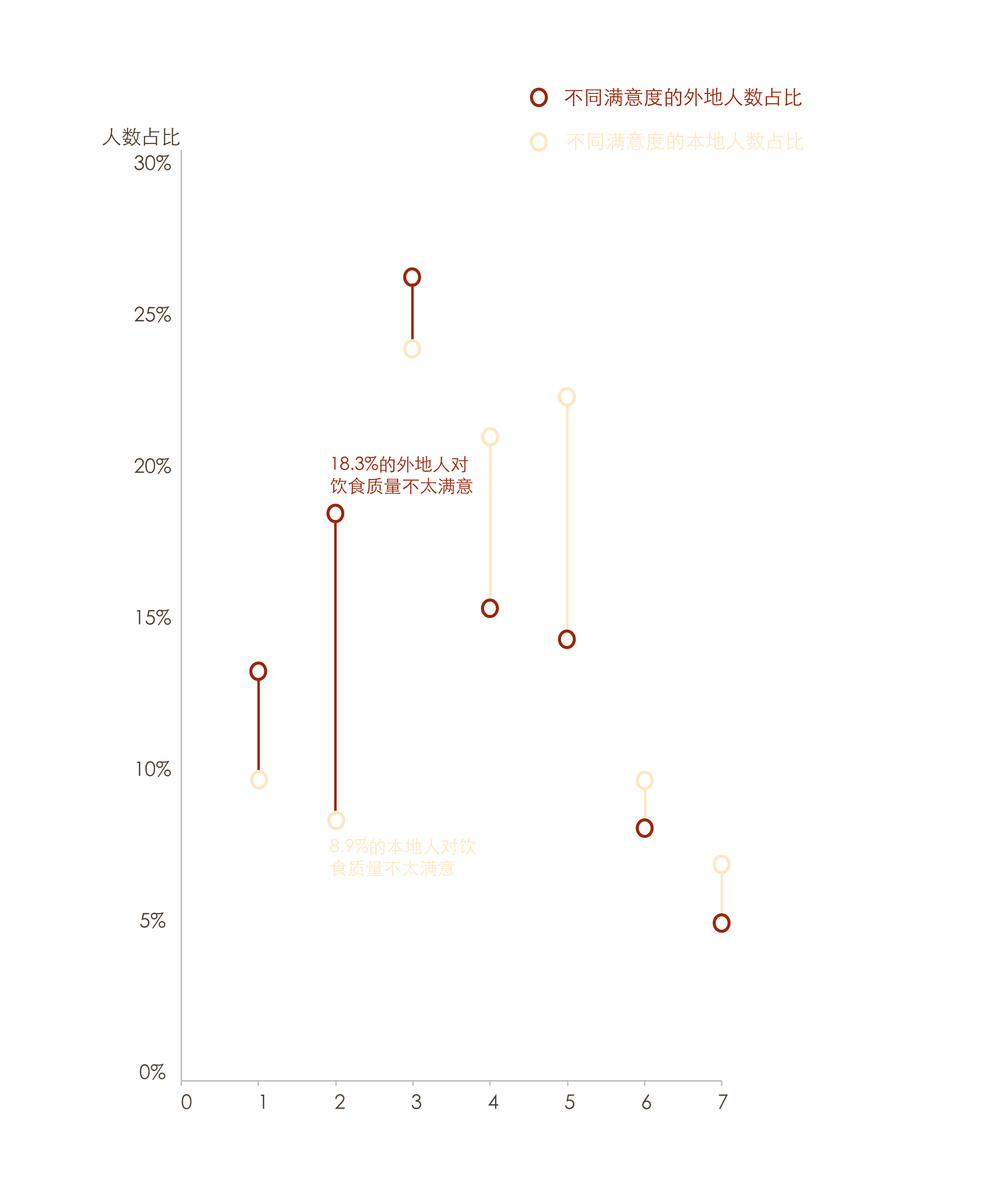
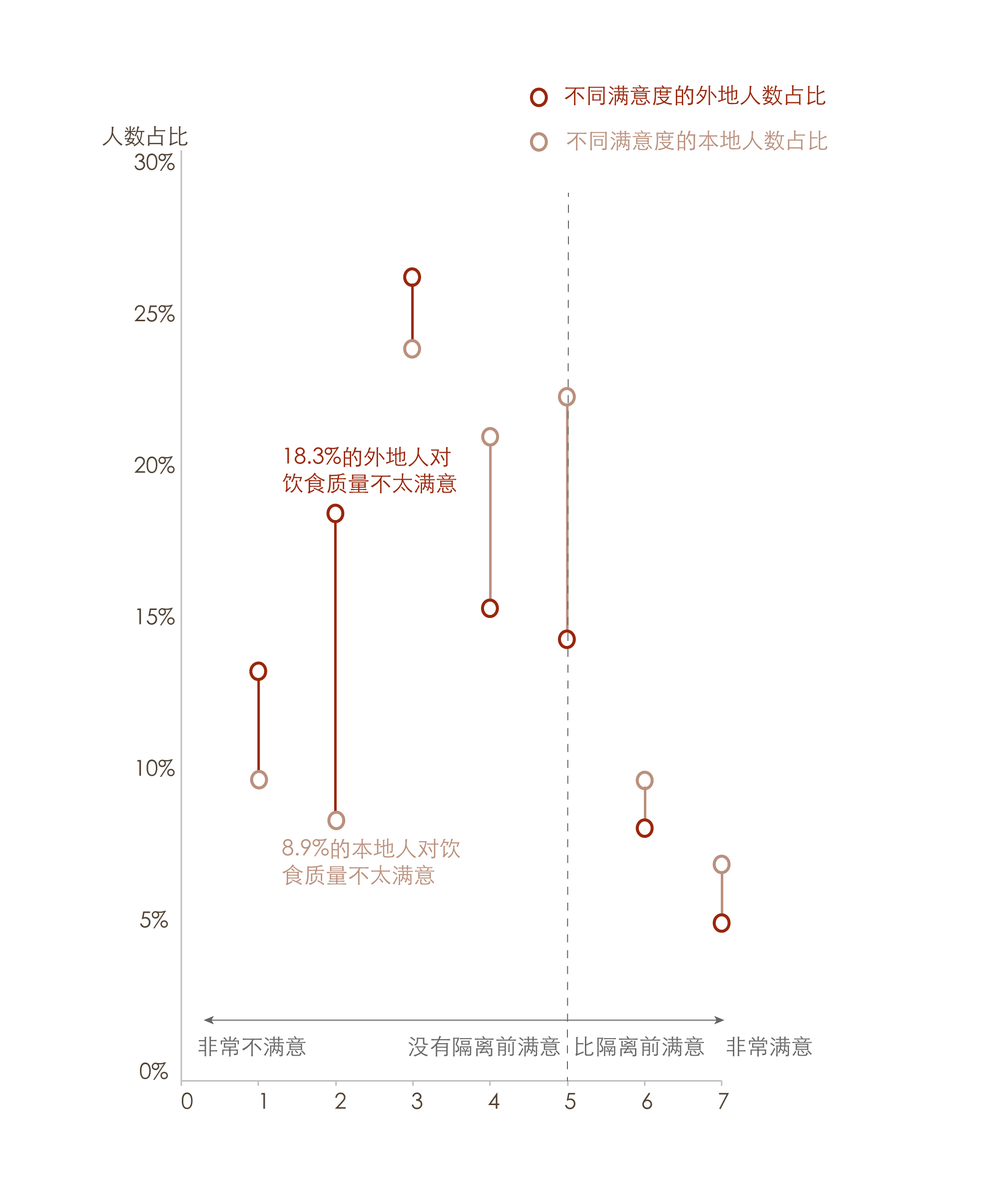
update

diff --git a/src/components/sec2.vue b/src/components/sec2.vue
@@ -88,12 +88,12 @@ onMounted(()=>{init();})
       <article style="margin-top:-325px">
           <div :class="'step step-'+id" data-step="1">
               <div class="right">
-                <p>这是上海抗疫互助网站“I ♥ shanghai”自4月10日到14日期间，全部7124条求助信息。反映了上海疫情封控期间，围绕求医、购药、断粮等民众生活中的诸多生存困境。</p>
+                <p>这是上海抗疫互助网站“I ♥ shanghai”自4月10日到14日期间，全部<strong>7124</strong>条求助信息。反映了上海疫情封控期间，围绕求医、购药、断粮等民众生活中的诸多生存困境。</p>
               </div>
           </div>
           <div :class="'step step-'+id" data-step="2">
               <div class="right">
-                <p>其中，有1517条求助信息涉及“饮食问题”，占比21%。</p>
+                <p>其中，有<strong>1517</strong>条求助信息涉及“饮食问题”，占比<strong>21%</strong>。</p>
                 <p>“吃不上”“吃不饱”“吃不好”，成为上海本轮疫情爆发以来突出的民生问题。</p>
               </div>
           </div>
@@ -106,7 +106,7 @@ onMounted(()=>{init();})
           </div>
           <div :class="'ll step step-'+id" data-step="4">
               <div class="right">
-                <p>其中，有305条求助信息，涉及官方食材发放中的管理问题，占12%。</p>
+                <p>其中，有<strong>305</strong>条求助信息，涉及官方食材发放中的管理问题，占<strong>12%</strong>。</p>
                   <p>这些求助者，有的没有收到食材方面的物资；有的虽然收到了物资，但由于物资数量太少，或物资并非急需，并不能解决生存困境；另外有少部分的求助者收到的物资已经变质。</p>
                 <div class="image" id="gv_things"><div class="t">物资数量和种类是物资发放中最主要的问题</div></div>    
               </div>
@@ -115,11 +115,11 @@ onMounted(()=>{init();})
           <div :class="'ll step step-'+id" data-step="5">
               <div class="right">
 
-<p>值得关注的是，这305条反映管理问题的求助中，存在物资发放问题的社区，也往往伴随着对于核酸检测不及时、阳性未转接、一刀切等疫情防控问题的反映。这些求助，折射着大众对当前疫情防控管理中乱象丛生的不满。<br/>
-<span class="ref">“一整个公寓没有物资，街道不让商家做饭。全楼的人没有物资，根本什么都买不到！没有发过一次物资！”——浦东区 86</span><br/>
-<span class="ref">“我在家里的方便面都已经吃完了。需要买个电饭锅煮面条吃，可我打上海市保供热线超市电话，他说需要居委会购买！可居委会电话始终无人接听状态！”——宝山区 199</span><br/>
-<span class="ref">“物资短缺（米面、蔬菜），从浦西封控开始到现在，五千人的小区仅发过一次食物物资！！物资急缺！！”——嘉定区 1802</span><br/>
-<span class="ref">“虹口区凉城街道文苑2居委车站北路727弄，封闭以来未曾收到米，油类物资，蔬菜和肉是腐烂变质的”——虹口区 2103</span>
+<p>值得关注的是，这305条反映管理问题的求助中，存在物资发放问题的社区，也往往伴随着对于核酸检测不及时、阳性未转接、一刀切等疫情防控问题的反映。这些求助，折射着大众对当前疫情防控管理中乱象丛生的不满。</p>
+<p><span class="ref">“一整个公寓没有物资，街道不让商家做饭。全楼的人没有物资，根本什么都买不到！没有发过一次物资！”——浦东区 86</span></p>
+<p><span class="ref">“我在家里的方便面都已经吃完了。需要买个电饭锅煮面条吃，可我打上海市保供热线超市电话，他说需要居委会购买！可居委会电话始终无人接听状态！”——宝山区 199</span></p>
+<p><span class="ref">“物资短缺（米面、蔬菜），从浦西封控开始到现在，五千人的小区仅发过一次食物物资！！物资急缺！！”——嘉定区 1802</span></p>
+<p><span class="ref">“虹口区凉城街道文苑2居委车站北路727弄，封闭以来未曾收到米，油类物资，蔬菜和肉是腐烂变质的”——虹口区 2103</span>
 </p>              
               </div>
           </div>
@@ -174,16 +174,15 @@ onMounted(()=>{init();})
           <div :class="'l step step-'+id" data-step="13" style="margin-top:40vh;">
               <div class="right slide-bar">
                 <div>
-                  <p class="subtitle">1. 温饱生命线：米面粮油紧缺</p>
+                  <p class="subtitle">温饱生命线：米面粮油紧缺</p>
                   <p>
-                    “物资短缺（米面、蔬菜），从浦西封控开始到现在，五千人的小区仅发过一次食物物资！！物资急缺！！”“公寓300多人现在断粮，苦捱度日，求提供泡面，面条等物资。”类似这样的求助信息在网站中随处可见。
-<br/>               本应作为生存基本保障的主食碳水，却在集中物资发放中频繁缺位。
-<br/>               住在静安区的一处老居民楼的小杨回忆到，在4月5日后收到的第一批官方援助物资是红糖、绿茶和蜂蜜。“你不能说这些东西没用，但是对于一群快吃不上饭的人来说，这肯定不是急需的物资。”
-<br/>
-<br/>
-<br/>                    据调查问卷结果显示，每天有超过12个小时都处于饥饿状态的人占比6%。即至少每17个人中就有1个每天都吃不饱饭。一位来自普陀区的家庭主妇表示，最久有持续15天没有吃过碳水类的主食，并留言道：“要饿死了。我们在要饭！”
-<br/>                    尽管这样的情况尚属个例，过半数的受访者一天仅有三小时以内的饥饿感。但足以见得饱腹的关键就是能不能获得足够的主食。
-<br/>                    米面粮油等主食供应已经成为封控之后当之无愧的生存生命线。“不是吃不饱，只是吃不好”成为挣扎在“生存线之上”的普遍状态。
+                    “物资短缺（米面、蔬菜），从浦西封控开始到现在，五千人的小区仅发过一次食物物资！！物资急缺！！”“公寓300多人现在断粮，苦捱度日，求提供泡面，面条等物资。”类似这样的求助信息在网站中随处可见。</p>
+<p>本应作为生存基本保障的主食碳水，却在集中物资发放中频繁缺位。</p>
+             <p>住在静安区的一处老居民楼的小杨回忆到，在4月5日后收到的第一批官方援助物资是红糖、绿茶和蜂蜜。“你不能说这些东西没用，但是对于一群快吃不上饭的人来说，这肯定不是急需的物资。”</p>
+
+     <p>据调查问卷结果显示，每天有超过12个小时都处于饥饿状态的人占比6%。即至少每17个人中就有1个每天都吃不饱饭。一位来自普陀区的家庭主妇表示，最久有持续15天没有吃过碳水类的主食，并留言道：“要饿死了。我们在要饭！”</p>
+           <p>尽管这样的情况尚属个例，过半数的受访者一天仅有三小时以内的饥饿感。但足以见得饱腹的关键就是能不能获得足够的主食。</p>
+                <p>米面粮油等主食供应已经成为封控之后当之无愧的生存生命线。“不是吃不饱，只是吃不好”成为挣扎在“生存线之上”的普遍状态。
                   </p>
                 </div>
               </div>
@@ -192,7 +191,7 @@ onMounted(()=>{init();})
           <div :class="'l step step-'+id" data-step="14">
               <div class="right slide-bar">
                 <div>
-                  <p class="subtitle">2. 饮食单一：物资多样化成奢侈</p>
+                  <p class="subtitle"> 饮食单一：物资多样化成奢侈</p>
                   <p>
                     “吃了十几天白萝卜包菜蛋饺了，看着是每顿有荤有素，但是每天食材都差不多。”已经因封校吃了40多天盒饭的研究生小壮吐槽道：“且不说饭菜味道如何，主要是根本不够吃，等不到下一次放饭就饿了。”</p>
                      <p> 诸如此类的情况并不在少数，通过对大家每天所吃的食物种类和疫情居家以来总共吃过的食物种类数据进行调查分析和可视化呈现，形成了左边这张气泡图。
@@ -235,20 +234,27 @@ onMounted(()=>{init();})
 <p>红色虚线框中了日均吃到6种食材的全部人群，可以看到最上面的气泡代表了该受访者虽然每天只吃六种食材，但居家以来一共吃过30种食材，几乎可以做到5天不重样的饮食丰富度。
                   </p>
                   <p><br/></p>
+                  <p><br/></p>
+                  <p><br/></p>
+                  <p><br/></p>
+                  <p><br/></p>
                   <p>其中，一天吃不到3种食材的占比24.3%，而平常制作一份蛋炒饭就要用到不止3种食材。</p>
-<p>不少上海高校学生反映，尽管学校有食堂，但依然发愁温饱。一方面，日复一日单调的食材和吃不饱还只是，还面临着严重的食品安全问题。</p>
+<p>不少上海高校学生反映，尽管学校有食堂，但依然发愁温饱。他们和小壮一样，每天都在吃差不多食材，在吃不饱的同时，还面临着严重的食品安全问题。</p>
 <p>“因为食堂有工作人员确诊阳性，学校为解决几千人的供餐问题，就需要靠外面的供应商，他们收费更高，食品质量还得不到保障。前几天配菜里的虾都已经酸了，因此而拉肚子的同学不在少数。”小壮介绍道。</p>
-                  
-                  <p>
-                    <strong>在食材匮乏的常态中，大家普遍想吃到什么呢？</strong><br/>
-截止到4月28日，有47.46%的受访者急需水果，43.48%的受访者希望吃到零食。</p>
+                  <p><br/></p>
+                  <p><br/></p>
+                  <p><br/></p>
+                  <p><br/></p>
+                  <p><br/></p>
+                  <p><strong>在食材匮乏的常态中，大家普遍想吃到什么呢？</strong></p>
+<p>截止到4月28日，有47.46%的受访者急需水果，43.48%的受访者希望吃到零食。</p>
 <div class="image" id="want_to_eat"><div class="t">最缺的是水果、零食、蔬菜</div></div>
 <p>
 一位在普陀区的一线工作人员在问卷中透露，自己已经20天没有吃到水果了。</p>
 <p>始终活跃在抗疫互助活动中的小王说：“生活已经这么难了，能吃点零食、喝瓶可乐就是我最大的精神寄托了。”通过对数据的交叉分析，可以发现这种将零食、饮料作为精神寄托的想法，在一线工作人员中尤为明显。</p>
 
-<p><strong>为何在普遍挣扎的吃饱的饮食需求状态中，零食和水果成为大家最想吃的东西？</strong><br/>
-自上海封城以来主要的人力和运力，都以保障生存为基础，首先满足生活必需品的供应。但随着封控时间越来越长，仅靠饱腹为目的的饮食摄入，严重破坏了大家的营养均衡和饮食习惯。</p>
+<p><strong>为何在普遍挣扎的吃饱的饮食需求状态中，零食和水果成为大家最想吃的东西？</strong></p>
+<p>自上海封城以来主要的人力和运力，都以保障生存为基础，首先满足生活必需品的供应。但随着封控时间越来越长，仅靠饱腹为目的的饮食摄入，严重破坏了大家的营养均衡和饮食习惯。</p>
 <p>根据问卷调查结果，学生和工薪族对水果的需求关系十分显著。</p>
 <p>“平时很少能吃到水果，我已经便秘很久了。”上海某高校应届毕业生小佳这样描述自己的生活，因宿舍楼曾有阳性确诊，自己已经足不出户的被封控的一个多月了。这期间学校平均每周会发一次水果，但也不是每个人都能得到。
 </p>
@@ -264,7 +270,7 @@ onMounted(()=>{init();})
           <div :class="'l step step-'+id" data-step="19">
               <div class="right slide-bar">
                 <div>
-                  <p class="subtitle">3. 需求重灾区：母婴、老人、病患等特殊人群</p>
+                  <p class="subtitle">需求重灾区：母婴、老人、病患等特殊人群</p>
                   <p>那么，是谁在求助？问题都集中爆发在哪些人群？</p>
                   <p>为了回答这个问题，我们将这1517条求助信息中提到的身份特征进行编码并分析，发现以母婴、老人、病患、残疾人为代表的特殊人群被提到607次，接近总量的一半。他们是这场疫情大考中需要被着重照顾的“特困生”。</p>
                 </div>
@@ -325,20 +331,22 @@ onMounted(()=>{init();})
                   <p>在所有关于“吃”的求助信息中，15.6%是关于这些“做饭条件”的。这些求助者多为在上海租房的年轻工薪族，他们平时就餐以公司食堂、外卖等方式为主，居住环境中很少涉及在家做饭的场景。</p>
                   <p>“我和室友连灶台都没有。封控以来，就是靠小电锅煮东西吃。这样凑合时间长了真的受不了。”居住在静安寺附近的小王说：“后来还是楼上一个独居阿姨，看我们不容易，收拾出来一套锅具和电磁炉解了我们燃眉之急。”</p>
                   <p>“我和室友连灶台都没有。封控以来，就是靠小电锅煮东西吃。这样凑合时间长了真的受不了。”居住在静安寺附近的小王说：“后来还是楼上一个独居阿姨，看我们不容易，收拾出来一套锅具和电磁炉解了我们燃眉之急。”</p>
+                  <p></p>
                   <div class="aside">
                     <div class="image" id="un_eat_able"><div class="t">厨房用具是除食材之外最主要的求助对象</div></div>
                     <div class="desc">所有和饮食相关的求助内容中，非食物被提及到38次，占1.5%。其中，锅等厨房用具被提到32次。缺煤气、缺电也是一大难题</div>
                   </div>
+                  <p></p>
 
-                  <p style="text-align:center;">
+                  <p >
                     在社会身份中，是否是上海本地人对饮食质量的高低存在相关性影响。据上海市第七次人口普查数据显示，外省来沪人口占比42.1%。孤立无援、无亲无故成为许多“沪漂”求助无门背后的重要原因。</p>
 
-                  <p style="text-align:center;">他们一方面是像小王一样没有在家生过火、做过饭，缺乏基本的设施条件；另一方面是居住环境所带来的限制，因租住在公寓而没有相关的管理和服务，以致无法进行有序的居家隔离和及时获得各类支援物资，“封城以来，一次物资都没发过，还抢不到菜。快要断粮了。”住在宝山区的小董求助道：“居委说我们不归他们管，流动人口归城管管，城管说只管商铺，不管公寓人员，说让找警察，警察又说找居委。”
+                  <p >他们一方面是像小王一样没有在家生过火、做过饭，缺乏基本的设施条件；另一方面是居住环境所带来的限制，因租住在公寓而没有相关的管理和服务，以致无法进行有序的居家隔离和及时获得各类支援物资，“封城以来，一次物资都没发过，还抢不到菜。快要断粮了。”住在宝山区的小董求助道：“居委说我们不归他们管，流动人口归城管管，城管说只管商铺，不管公寓人员，说让找警察，警察又说找居委。”
                   </p>
-                  <p style="text-align:center;">而上海的本地人则可以借助自己已有的亲属关系和社会网络，在突如其来的疫情封控期间获得更多的支持和帮助。但同时他们也更需要操心亲友中老年人的生活问题。</p>
-                  <p style="text-align:center;">小王在整理求助信息的共享文档时也表达过同样的感触：“我是一人吃饱全家不愁，但是家里有老人，尤其是独居老人真的很困难。”</p>
+                  <p >而上海的本地人则可以借助自己已有的亲属关系和社会网络，在突如其来的疫情封控期间获得更多的支持和帮助。但同时他们也更需要操心亲友中老年人的生活问题。</p>
+                  <p>小王在整理求助信息的共享文档时也表达过同样的感触：“我是一人吃饱全家不愁，但是家里有老人，尤其是独居老人真的很困难。”</p>
                   <div class="image" id="part3_waidiren"><div class='t'>封控后本地人的饮食满意度落差更小</div></div>
-                  <p style="text-align:center;">值得一提的是，疫情下的宠物们所面临的饮食问题也并不亚于人类。求助狗粮、猫粮的声音也在诸多平台铺天盖地的求助信息中发着微弱的呼救。迫不得已接受天价倒卖和尝试临期过期宠物食品的表述也时常出现在那些信息列表之中。</p>
+                  <p>值得一提的是，疫情下的宠物们所面临的饮食问题也并不亚于人类。求助狗粮、猫粮的声音也在诸多平台铺天盖地的求助信息中发着微弱的呼救。迫不得已接受天价倒卖和尝试临期过期宠物食品的表述也时常出现在那些信息列表之中。</p>
       </div>
     </div>
 </template>
@@ -372,7 +380,7 @@ figure{
   box-sizing: border-box;
 }
 .step.lll{
-  height: 240vh;
+  height: 300vh;
   padding-top: 50px;
   box-sizing: border-box;
 }
@@ -411,6 +419,7 @@ figure{
 }
 .title01{
   border:none;
+  margin-top:100px;
   width:100vw;
   height:140px;
     background-position: calc(50% - 50px);
@@ -440,7 +449,7 @@ figure{
   position: fixed;
   top:5px;
   right: 50px;
-  width: 500px;
+  width: 45vw;
   z-index: 3;
 }
 .image{
@@ -453,6 +462,7 @@ figure{
     .t{
       font-size: 14px !important;
       width: 100%;
+      font-weight: bold;
       text-align: center;
       color:#666;
     }
@@ -481,7 +491,7 @@ figure{
   background-image: url('../assets/images/all/want_to_eat.png');
 }
 #wordcloud{
-  height:300px;
+  height:200px;
   background-size: contain;
   background-image: url('../assets/images/all/wordcloud.png');
 }
@@ -504,7 +514,7 @@ figure{
 }
 .slide-bar{
     // height: 100%;
-    width:460px;
+    width:calc(45vw - 40px);
     // box-sizing: border-box;
     // margin-left:65vw;
     position: absolute;
@@ -514,10 +524,10 @@ figure{
 }
 #right-slide-bar{
   background-color: rgba(0,0,0,.2);
-  height: 1140vh;
+  height: 1200vh;
   position: absolute;
   right:50px;
-  width: 500px;
+  width: 45vw;
   margin-top:-10vh;
 }
 </style>

diff --git a/src/components/sec1.vue b/src/components/sec1.vue
@@ -52,21 +52,29 @@ onMounted(()=>{
     <div class="content-div">
       <div class="content-wrap">
               <!-- <p class="subtitle"><span>物资</span></p> -->
-              <p class="ref">“非必要不购买改善型食品，如酒水、饮料、香烟、休闲零食、甜点小食、奶茶咖啡等非生活必需品。” ——由由八居委 2022年5月9日</p>
+              <p><span  class="ref">“非必要不购买改善型食品，如酒水、饮料、香烟、休闲零食、甜点小食、奶茶咖啡等非生活必需品。” ——由由八居委 2022年5月9日</span></p>
 
-              <p>无独有偶，在闵行区读研的小壮趁着买药的机会买了葡萄糖和凉茶颗粒，“这样四舍五入就等于有王老吉喝了。”他感慨道：“两个月前，要是有人跟我说2022年的上海让人吃不上饭，我是肯定不信的。”</p>
-              <p>那么，做为国际大都市的上海，在今天，为何会有这么多人吃不饱？吃不好？</p>
+              <p><span  class="ref">无独有偶，在闵行区读研的小壮趁着买药的机会买了葡萄糖和凉茶颗粒，“这样四舍五入就等于有王老吉喝了。”他感慨道：“两个月前，要是有人跟我说2022年的上海让人吃不上饭，我是肯定不信的。”</span></p>
+              <p><span  class="ref">那么，做为国际大都市的上海，在今天，为何会有这么多人吃不饱？吃不好？</span></p>
       </div>
 	</div>
   <div class="content-div">
       <div class="content-wrap">
               <!-- <p class="subtitle"><span>物资</span></p> -->
-              <p>横亘在上海所有市民面前的，是巨大的物资供需鸿沟。<br/>
-              它撕裂开的是，随着封控时长日益增长的生活必需品需求和远无法满足供给的诸多条件之间存在的突出问题。
+              <p>横亘在上海所有市民面前的，是巨大的物资供需鸿沟。</p>
+              <p>它撕裂开的是，随着封控时长日益增长的生活必需品需求和远无法满足供给的诸多条件之间存在的突出问题。
               </p>
       </div>
 	</div>
-    <bubble></bubble>
+  <div class="chart-div" id="bottom" ></div>
+  <bubble></bubble>
+  <div class="content-div">
+      <div class="content-wrap">
+              <!-- <p class="subtitle"><span>物资</span></p> -->
+              <p>下图为上海重要防疫政策出台时间线，以及每日上海新增新冠病例数（包含确诊与无症状）变动情况。</p>
+              <p>3月28日，以黄浦江为界，浦东浦西交替封城，但更随着多无症状患者被持续发现，上海也迫不得已根据不同区域实际情况延长封控时间。不少对解封保持态度乐观的居民，瞬间陷入屯粮不足的尴尬境地。</p>
+      </div>
+	</div>
     <div ref="scrolly">
         
         <figure :class="'part '+ ('part-'+count)"> 
@@ -93,13 +101,13 @@ onMounted(()=>{
       <div class="content-wrap">
               <!-- <p class="subtitle"><span>物资</span></p> -->
               <p>在这些日增五位数的背后，是一个又一个想要就医治疗的感染者和一群又一群惶恐不安的密接者；是他们对同住者无尽的抱歉和对下个环境未知的恐惧。从对“下个14天后就解封”逐渐不抱希望的等待，到习惯并接受现有生活的平静。</p>
-              <p>这些数据能够告诉我们，疫情扩散正在被遏制。 </p>
-              <p>这些数据没有告诉我们的。。。</p>
-              <p>那么上海，那里的人过的怎么样？</p>
+              <p>这些数据能够告诉我们，疫情扩散正在被遏制。  </p>
+              <p>这些数据没有告诉我们，疫情下的上海生活是什么样？</p>
               <p>我们试图从民众生活的最基础——吃饭问题上，撕开一角，了解这月余的全域静态管理下的大多数人。</p>
+
       </div>
     </div>
-    <div class="options"><a id='database_button' href="https://hurricanemariasdead.com/database.html">查看求助信息</a>
+    <div class="options"><a id='database_button' href="http://120.77.96.185/">查看求助信息</a>
         <div class="scrolldown" @click="_show_story"><a href="#story">阅读故事</a></div>
     </div>
     <div class="chart-div" id="bottom" ></div>

diff --git a/src/components/sec4.vue b/src/components/sec4.vue
@@ -49,8 +49,8 @@ const count = ref("0")
     <div class="content-div">
       <div class="content-wrap">
               <!-- <p class="subtitle"><span>物资</span></p> -->
-              <p>“没有食欲，一天只能吃一两顿”</p>
-            <p>除了身体健康受到影响，产生肠胃问题之外，饮食状况也给很多上海民众带来心理层面的压抑。并会因此没有胃口，主动减少饮食摄入。如此循环往复，身体和心理都释放出问题信号。
+              <p>“没有食欲，一天只能吃一两顿。”</p>
+            <p>除了身体健康受到影响，产生肠胃问题之外，饮食状况也给很多上海民众带来心理层面的压抑,并会因此没有胃口，主动减少饮食摄入。如此循环往复，上海民众的身体和心理都释放出了问题信号。
             </p>
       </div>
 	</div>
@@ -67,11 +67,12 @@ const count = ref("0")
               <p>上海在2022年春天的故事还没讲完。</p>
               <p>所有人都期待着，那一天的到来——可以自由吃水果、零食和蔬菜的一天。</p>
 
+              <p>文中受访者小王、小壮、小佳、何风等均系化名<br/>“——松江区 6219”等指在整个求助列表中的地区来源和编号</p>
       </div>
     </div>
-    <div class="options" style="margin:30px atuo;">
-        <p>如果你有什么故事想要分享，可以点击按钮填写问卷</p>
-        <a style="float:none;margin:20px auto;" href="https://www.wjx.cn/vj/QoV3Siq.aspx">查看求助信息</a>
+    <div class="options" style="margin:100px atuo;">
+        <p><span class="ref">如果你有什么故事想要分享，可以点击按钮填写问卷</span></p>
+        <a style="float:none;margin:20px auto;" href="https://www.wjx.cn/vj/QoV3Siq.aspx">点击填写问卷</a>
     </div>
 
     <div class="content-div">
@@ -84,10 +85,11 @@ const count = ref("0")
                 <p><strong>参考资料：</strong>
                 <br/>上海市第七次人口普查数据</p>
 
-                <p><br/></p>
+                <!-- <p><br/></p> -->
                 <p><strong>指导老师</strong>：叶韦明</p>
                 <p><strong>北京大学财经传媒出品</strong></p>
-
+                <p><br/></p> 
+                <p><br/></p> 
         </div>
     </div>
     

diff --git a/src/components/sec3.vue b/src/components/sec3.vue
@@ -225,14 +225,15 @@ figure{
   box-sizing: border-box;
   div{
     width: calc(25% - 10px);
-    height: 40px;
+    height: 35px;
 
-    background: $button-unchecked;
+    background: white;
+    color:$button-checked-red;
     float:left;
-    font-size: 14pt;
+    font-size: 16px;
     margin:5px 5px;
     border-radius: 5px;
-    line-height: 40px;
+    line-height: 35px;
   }
   div.active{
     background: $button-checked-red;
@@ -243,7 +244,7 @@ figure{
   position: fixed;
   top:5px;
   right: 50px;
-  width: 500px;
+  width: 45vw;
   z-index: 3;
 }
 .image{
@@ -256,6 +257,7 @@ figure{
   .t{
       font-size: 14px !important;
       width: 100%;
+      font-weight: bold;
       text-align: center;
       color:#666;
     }
@@ -278,18 +280,19 @@ figure{
   background-image:url('../assets/images/all/part2_bar3.png');
 }
 .slide-bar{
-    width:500px;
+    width: 45vw;
     position: absolute;
     right:50px;
     background: transparent;
     border: none;
 }
 #right-slide-bar{
-  background-color: white;
+  // background-color: white;
+  background-color: rgba(0,0,0,.2);
   height: 650vh;
   position: absolute;
   right:50px;
-  width: 500px;
+  width: 45vw;
   margin-top: -50vh;
 }
 .part-0{

diff --git a/src/assets/global.scss b/src/assets/global.scss
@@ -112,6 +112,7 @@ ul,li{list-style:none}
 
     /* 滑动的标签第几步 */
     .step {
+      line-height: 28px;
         margin: 0 auto 2rem auto;
         color: $color;
         // background-color: #DBC1AF;

diff --git a/src/components/charts/chartScatter.vue b/src/components/charts/chartScatter.vue
@@ -306,6 +306,8 @@ defineExpose({
   opacity:0;
 }
 .part.part-1{
+  width: 600px;
+  height: 600px;
   background-image: url('../../assets/images/all/part1_3_01.png');
 }
 .part.part-2{
